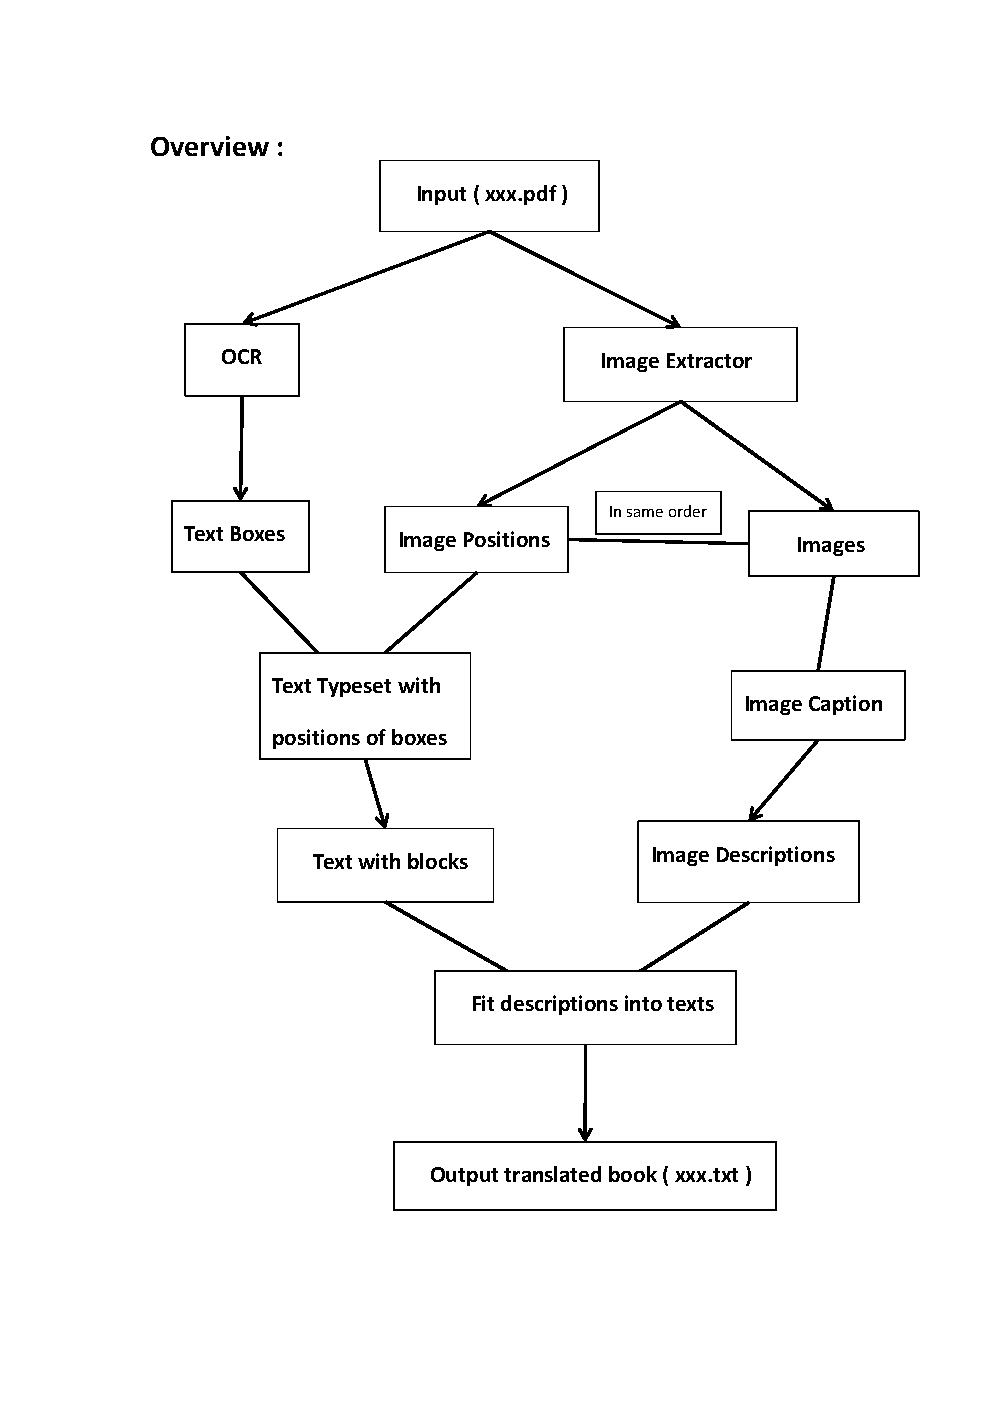
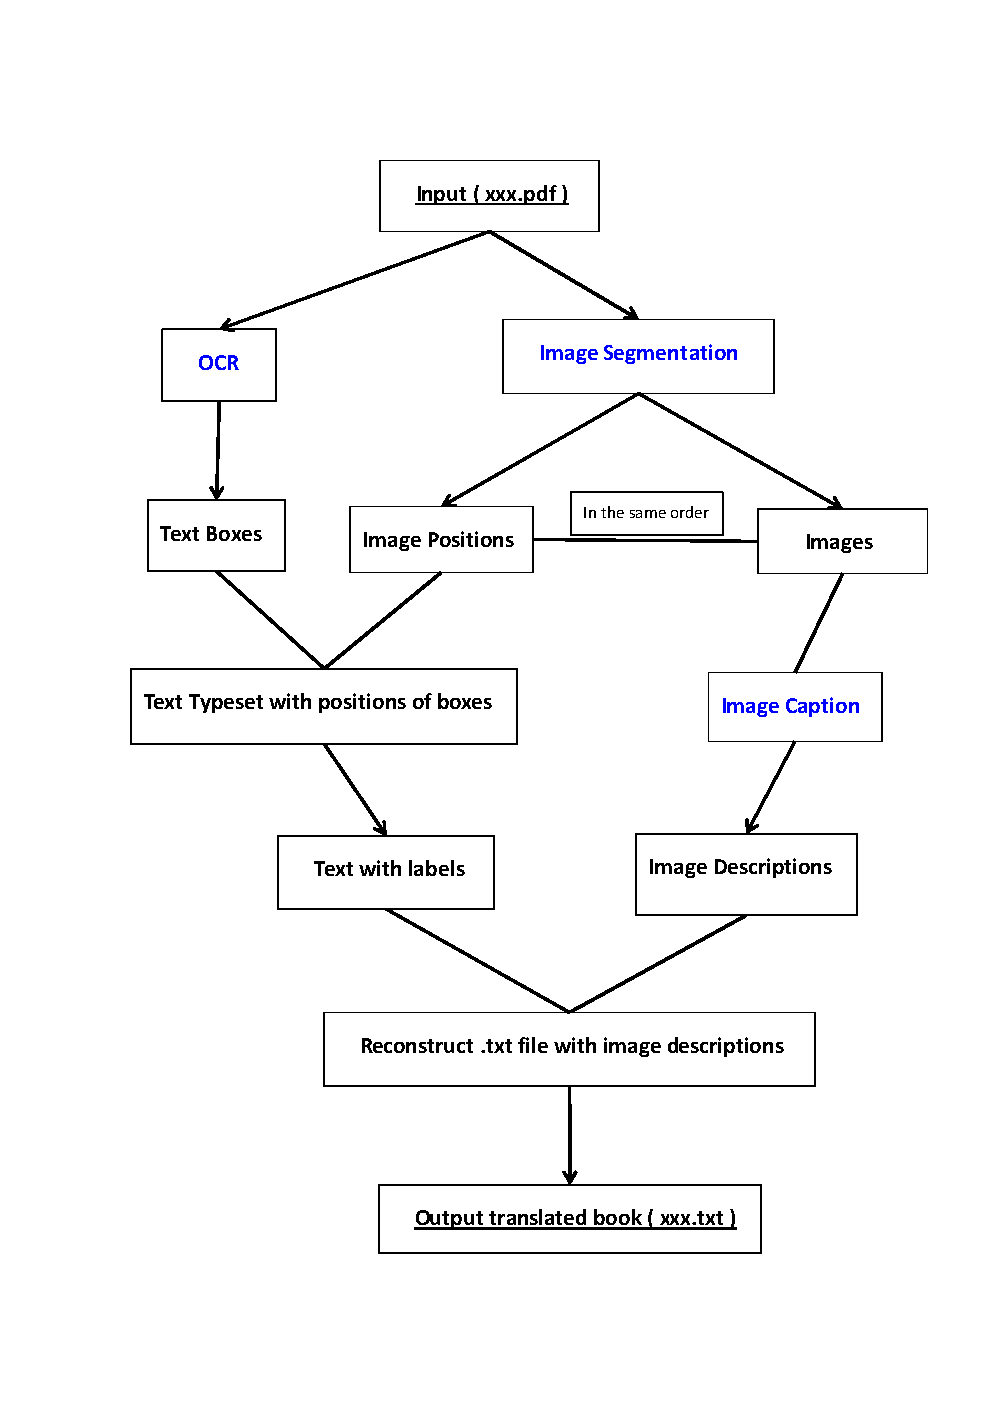
update overview

diff --git a/MyOCR.py b/MyOCR.py
@@ -11,7 +11,7 @@ def OCR(pages, filename: str, img_areas: Area):  # OCR operation
     f.close()
     # OCR
     txt = ""
-    lable = "%&%$\n"
+    label = "%&%$\n"
     f = open(f'./output/{filename}.txt', 'a')
     for i in range(len(pages)):
         page = pages[i]
@@ -19,19 +19,19 @@ def OCR(pages, filename: str, img_areas: Area):  # OCR operation
         result = ocr.ocr(page, cls=False, det=True)[0]
         for idx in range(len(result)):
             txt = txt + result[idx][1][0] + "\n"
-        # insert image lables
+        # insert image labels
         for area in areas:
             flag = False
             for idx in range(len(result)):
                 if area.y1 < result[idx][0][3][1]:
                     tmp = result[idx][1][0] + "\n"
                     if len(tmp) > 5:
-                        pos = txt.find(tmp)+len(tmp)
-                        txt = txt[:pos]+lable+txt[pos:]
+                        pos = txt.find(tmp) + len(tmp)
+                        txt = txt[:pos] + label + txt[pos:]
                         flag = True
                         break
             if not flag:
-                txt = txt + lable
+                txt = txt + label
         # perform write operation every page
         f.write(txt)
         txt = ""

diff --git a/Reconstruction.py b/Reconstruction.py
@@ -7,15 +7,15 @@ def reconstruct(txt_captions,bookname:str):
     f.write("") # cover old version
     f.close()
     f = open(f'./output/{bookname}.txt', 'a')
-    lable = "%&%$"
+    label = "%&%$"
     new_file = ""
     cnt = len(lines)
     idx = 0
     for txt_caption in txt_captions:
-        while idx < cnt and lines[idx].find(lable) == -1:
+        while idx < cnt and lines[idx].find(label) == -1:
             idx = idx + 1
-            new_file = new_file+lines[idx]
-        new_file = new_file + "插图：" + lines[idx].replace(lable,txt_caption)
+            new_file = new_file + lines[idx]
+        new_file = new_file + "插图：" + lines[idx].replace(label,txt_caption)
         f.write(new_file)
         new_file = ""
     f.close()
